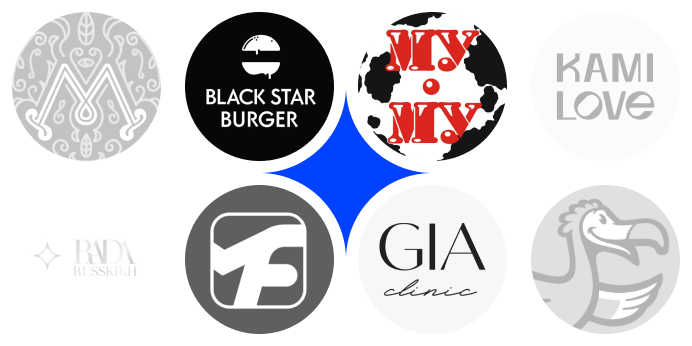
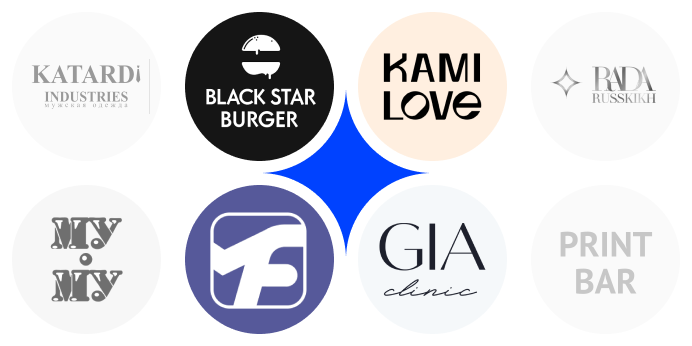
Заменены клиенты в секции о Barter

diff --git a/app/css/main.css b/app/css/main.css
@@ -907,6 +907,8 @@ ul li:first-child {
     .fift .container {
       padding-left: 20px;
       padding-right: 20px; } }
+  .fift .simplebar-content-wrapper {
+    padding-right: 0 !important; }
 
 .fift__text {
   text-align: center;
@@ -959,10 +961,10 @@ ul li:first-child {
 
 .fift__box {
   display: grid;
+  grid-template-columns: 296px 296px 322px;
   justify-content: center;
-  grid-template-columns: 300px 320px 320px;
   gap: 50px;
-  max-width: 1000px;
+  max-width: 980px;
   margin: 0 auto;
   padding-top: 10px; }
   @media (max-width: 1260px) {
@@ -983,6 +985,7 @@ ul li:first-child {
 .fift__item {
   text-align: center;
   height: 549px;
+  margin: 0 auto;
   position: relative; }
   @media (max-width: 1260px) {
     .fift__item {
@@ -1000,6 +1003,9 @@ ul li:first-child {
     .fift__item {
       height: 452px; } }
 
+.fift__box .fift__item:first-child {
+  margin-left: -26px; }
+
 .fift__item-content {
   background: #B9FF66;
   padding: 20px;
@@ -1008,9 +1014,9 @@ ul li:first-child {
   font-size: 25px;
   line-height: 120%;
   position: absolute;
-  left: 4%;
+  left: 6.5%;
   bottom: 0;
-  width: 92%; }
+  width: 278px; }
   @media (max-width: 1260px) {
     .fift__item-content {
       font-size: 23px;

diff --git a/app/sass/main.sass b/app/sass/main.sass
@@ -463,6 +463,8 @@
         +xs
             padding-left: 20px
             padding-right: 20px
+    .simplebar-content-wrapper
+        padding-right: 0 !important
 .fift__text
     text-align: center
     margin-bottom: 40px
@@ -507,10 +509,10 @@
             padding: 0 !important
 .fift__box
     display: grid
+    grid-template-columns: 296px 296px 322px
     justify-content: center
-    grid-template-columns: 300px 320px 320px
     gap: 50px
-    max-width: 1000px
+    max-width: 980px
     margin: 0 auto
     padding-top: 10px
     +lg
@@ -527,6 +529,7 @@
 .fift__item
     text-align: center
     height: 549px
+    margin: 0 auto
     position: relative
     +lg
         height: 520px
@@ -539,6 +542,9 @@
         height: 460px
     +xs
         height: 452px
+.fift__box
+    .fift__item:first-child
+        margin-left: -26px
 .fift__item-content
     background: #B9FF66
     padding: 20px
@@ -547,9 +553,9 @@
     font-size: 25px
     line-height: 120%
     position: absolute
-    left: 4%
+    left: 6.5%
     bottom: 0
-    width: 92%
+    width: 278px
     +lg
         font-size: 23px
         left: 2%
